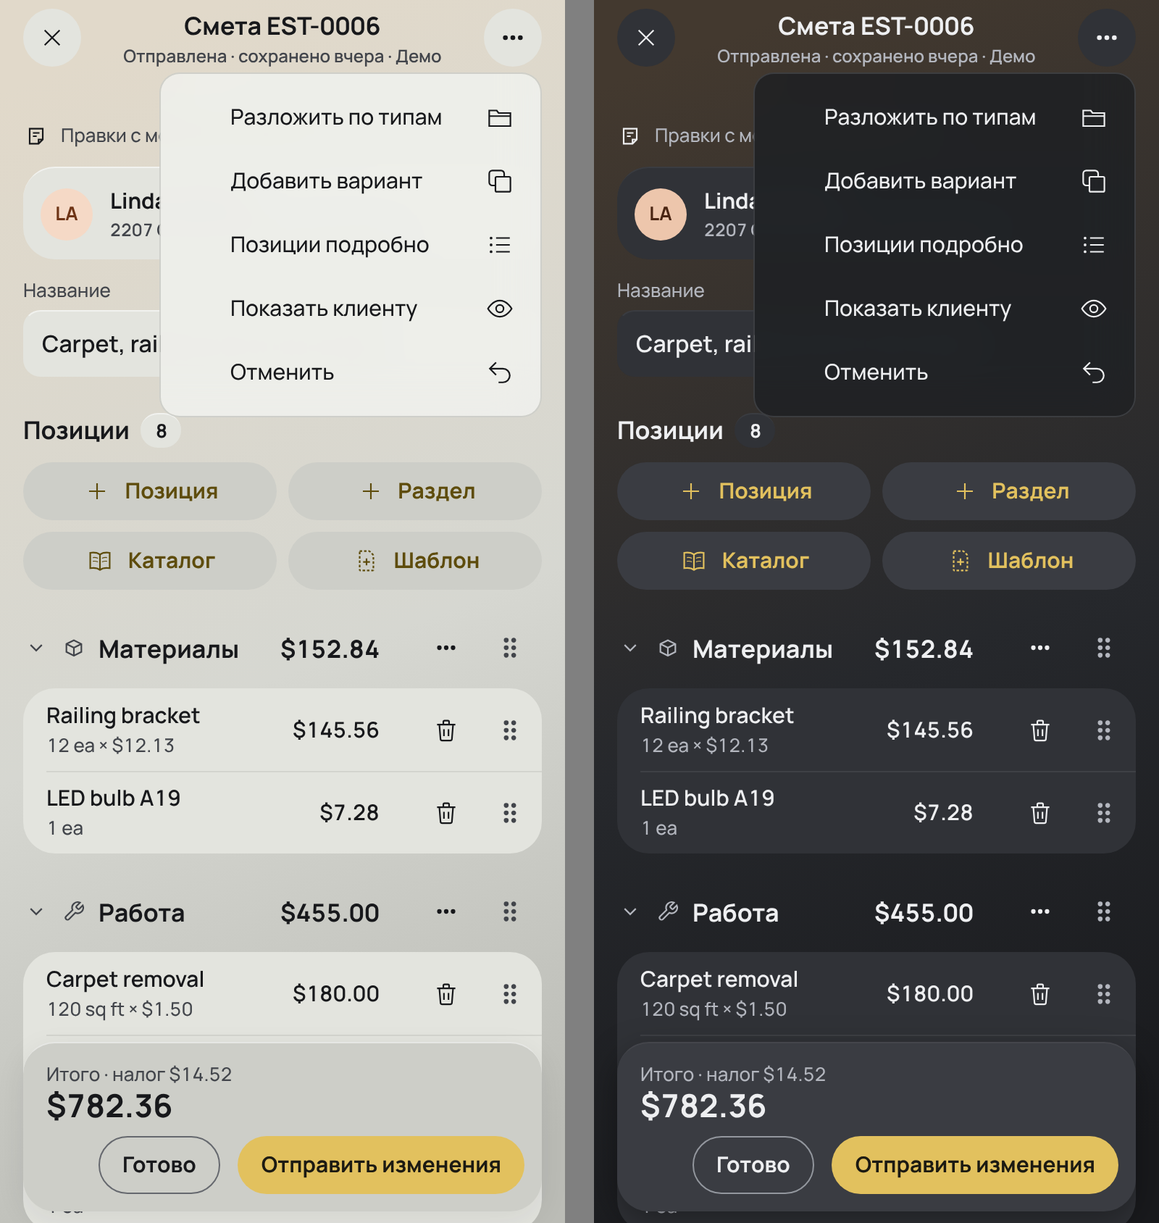
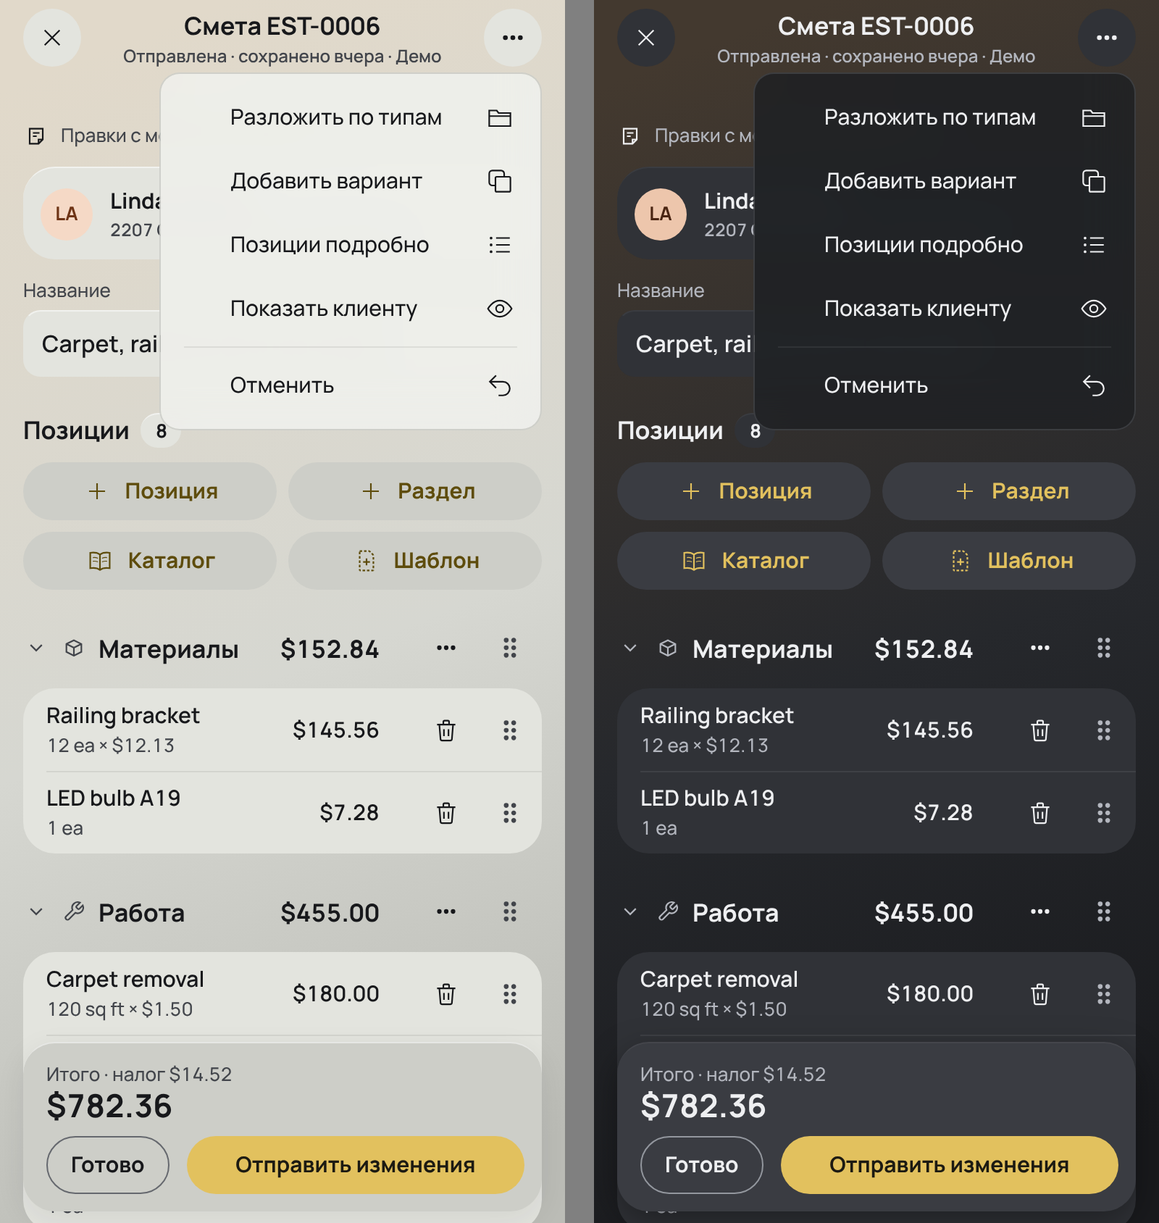
fix(ds): низ сметы, раунд 2 ревью дизайна (#2935)
Ж1: в конце прокрутки «Условия» целиком над низом в две строки — e2e 308 на 6 видах
    (запас под списком уже растёт с высотой низа: Screen меряет footer).
Ж2: две строки держатся до закрытия редактора — stackedBar(m, was), тест mainStep.
Ж3: «Отменить» в «⋯» — после разделителя (MenuItem.group), не красное; e2e 308.
М1: в две строки главная — на остаток ряда (Button grow), «Готово» — по слову; e2e 308.
М2: рамка «Готово» — токен dash в обеих темах (проверено e2e по цвету).
М4: ActionBar — кнопки size="bar" (44), правки не нужно.
Снимки docs/notes/ds-gorix/ пересняты, + smeta-konets.png.

Claude-Session: https://claude.ai/code/session_015CqH67VvS8XLykmH9b4A2U

diff --git a/apps/mobile/src/ui/mainStep.tsx b/apps/mobile/src/ui/mainStep.tsx
@@ -101,7 +101,13 @@ export function MainStep({
         ) : null}
       </View>
     ) : null;
+  // Ж2: two lines stick for the life of the bar (the editor) — no jumping between one line and two while a price is typed
+  const stuck = useRef(false);
+  const stacked = placement === "bar" && layout === "total" && stackedBar(room, stuck.current);
+  if (stacked) stuck.current = true;
   const byWords = placement === "bar" || fit;
+  // М1 (round 2): in the two-line bar the main one takes the row's remaining width, «Готово» keeps its words' width
+  const stackedMain = stacked;
   const button = (
     <Button
       testID={main.testID}
@@ -111,6 +117,7 @@ export function MainStep({
       disabled={main.disabled || phase === "spinner" || phase === "wait"}
       variant={outline || main.outline ? "secondary" : "primary"}
       full={!byWords}
+      grow={stackedMain}
     />
   );
   if (placement === "top")
@@ -120,7 +127,6 @@ export function MainStep({
         {reason}
       </View>
     );
-  const stacked = placement === "bar" && layout === "total" && stackedBar(room);
   // a stacked bar is taller than the capsule: it does not fold (the page's end would move under the finger)
   if (placement === "bar" && folded && total && onUnfold && !stacked)
     return (
@@ -166,7 +172,7 @@ export function MainStep({
           <View style={stacked ? { alignItems: "flex-start" } : { flex: 1, minWidth: 0, alignItems: "flex-start" }}>{left}</View>
           <View
             onLayout={(e) => { const right = Math.round(e.nativeEvent.layout.width); setRoom((f) => (f.right === right ? f : { ...f, right })); }}
-            style={{ flexDirection: "row", alignItems: "center", gap: space[3], flexShrink: 0, alignSelf: stacked ? "flex-end" : undefined }}
+            style={{ flexDirection: "row", alignItems: "center", gap: space[3], flexShrink: 0, alignSelf: stacked ? "stretch" : undefined }}
           >
             {/* #2935: an `outline` aside is the second step beside the main one («Готово» by «Отправить») — `outline` (a `secondary` is the bar's own `surf2`); else a quiet `ghost` («Отменить») */}
             {aside ? <Button testID={aside.testID} label={aside.label} onPress={aside.onPress} disabled={aside.disabled} variant={aside.outline ? "outline" : "ghost"} /> : null}

diff --git a/apps/mobile/src/app/estimate/new.tsx b/apps/mobile/src/app/estimate/new.tsx
@@ -1110,8 +1110,8 @@ function EstimateBuilder({ drafts }: { drafts: ReturnType<typeof useEstimateDraf
     ...(!signed && !tplEdit && doc.options.length < MAX_OPTIONS ? [{ key: "option", label: t("est.var.add"), icon: "copy" as const, testID: "est-add-option" }] : []),
     ...(option.lines.length ? [{ key: "rows", label: t("proto.est.rowsFull"), icon: "list" as const, selected: rowLook === "full", testID: "est-row-view" }] : []),
     { key: "client", label: t("est.client.on"), icon: "eye" as const, selected: clientScreen, testID: "est-menu-client" },
-    // #2935: the bar holds «Итого · Готово · Отправить» — «Отменить» (only with edits, #2381) is the last item here; it asks as before
-    ...(bar.cancel === "more" ? [{ key: "cancel", label: t("k1.cancel"), icon: "undo" as const, testID: "k1-cancel" }] : []),
+    // #2935: the bar holds «Итого · Готово · Отправить» — «Отменить» (only with edits, #2381) is the last item here, after a line (round 2 Ж3; not red: it asks, nothing is lost without the answer)
+    ...(bar.cancel === "more" ? [{ key: "cancel", label: t("k1.cancel"), icon: "undo" as const, group: true, testID: "k1-cancel" }] : []),
   ];
   const onMore = (k: string) => {
     if (k === "cancel") void cancelEdits();

diff --git a/apps/mobile/src/ui/controls.tsx b/apps/mobile/src/ui/controls.tsx
@@ -45,7 +45,10 @@ export function Button({
   accessibilityLabel,
   selected,
   testID,
+  grow,
 }: {
+  /** takes the rest of its row (`flex: 1` of the touch target): the main one of a two-line editor bar (round 2 М1) */
+  grow?: boolean;
   label: string;
   onPress?: () => void;
   variant?: BtnVariant;
@@ -75,6 +78,7 @@ export function Button({
       onPress={onPress}
       disabled={disabled}
       visibleHeight={h}
+      containerStyle={grow ? { flex: 1 } : undefined}
       accessibilityRole="button"
       accessibilityLabel={accessibilityLabel ?? label}
       {...(selected !== undefined ? ({ accessibilityState: { selected, disabled: !!disabled }, "aria-pressed": selected } as object) : null)}
@@ -94,7 +98,7 @@ export function Button({
           alignItems: "center",
           justifyContent: "center",
           gap: space[2],
-          alignSelf: full ? "stretch" : "flex-start",
+          alignSelf: full || grow ? "stretch" : "flex-start",
         },
         style,
       ]}

diff --git a/apps/mobile/src/ui/mainStepRules.ts b/apps/mobile/src/ui/mainStepRules.ts
@@ -58,7 +58,10 @@ export function totalNeed(caption: number, sum: number, floor: number = shrinkFl
 
 /** the total gets its own line over the buttons when it and the buttons (`right`, natural) do not stand in one `row` (gap `space[3]`);
  *  nothing measured yet — one row */
-export function stackedBar(m: { row: number; right: number; need: number }): boolean {
+export function stackedBar(m: { row: number; right: number; need: number }, was = false): boolean {
+  // round 2 (Ж2): once two lines in an editing session, two lines until the editor is closed — typing a price never makes the
+  // bar jump between one line and two (the MainStep keeps `was` for its life: the editor's)
+  if (was) return true;
   if (!(m.row > 0 && m.right > 0 && m.need > 0)) return false;
   return m.need + space[3] + m.right > m.row;
 }

diff --git a/apps/mobile/test/mainStep.test.ts b/apps/mobile/test/mainStep.test.ts
@@ -66,3 +66,13 @@ describe("the bar's total never cut", () => {
     expect(stackedBar({ row: 330, right: 208, need: 0 })).toBe(false);
   });
 });
+
+/** round 2 Ж2: once two lines, two lines until the editor closes — no jump while typing (red before: back to one line at once) */
+describe("the two-line bar holds (hysteresis)", () => {
+  it("a shorter sum after two lines keeps two lines; a fresh bar with the same numbers is one line", () => {
+    const short = { row: 330, right: 208, need: 100 };
+    expect(stackedBar(short, true)).toBe(true);
+    expect(stackedBar(short, false)).toBe(false);
+    expect(stackedBar({ row: 0, right: 0, need: 0 }, true)).toBe(true);
+  });
+});

diff --git a/design/gorix/modules/estimate.md b/design/gorix/modules/estimate.md
@@ -20,7 +20,7 @@
 ### 1.2. Итоги, заметки, низ
 - **Итоги** — `ListGroup` из `GroupRow`: «Сумма», «Скидка», «Налог с продаж», «Депозит» (§3); от 820 — ещё «Итого» крупно. Под строкой — что вышло («Скидка −$…», новый «Итого»), чтобы было видно, что правка уже в смете.
 - **Заметка и условия** — `GroupRow` с «›»: «Заметка для клиента», «Условия» (на языке интерфейса; язык документа — тихой меткой «EN» справа, `GroupRow valueMark`). Шторка правки — «Сохранить» в `footer`; «✕» и смахивание тоже сохраняют (§6).
-- **Низ** — `MainStep bar`, как у Jobber «Review and send» (основатель 27.11, #2935 п.1: «Давай кнопку отправить вниз, как у Джобер»): слева итог (число, не кнопка: шторки «Итого» нет, С5): верхней строкой подписи — «Итого · налог $14.52» (`caption` `mut`, одна строка), под ней сумма `title` одна; справа «Готово» (`Button variant="outline"` — без заливки, рамка `component.hairline` цвета `dash`, слова `ink`; `MainStep aside` с `outline`) и **«Отправить» — одна жёлтая** (`est-bar-send`). Ни сумма, ни налог не обрезаются (ревью 27.11, #2935: «налог ˎ» на 390): сумма сжимается по месту до следующего размера шкалы (`title` 22 → `figureSm` 18, `shrinkFloor`); если итог и кнопки не встают в один ряд — итог встаёт своей строкой над кнопками (`stackedBar`, по измерению, не по длине слов; такой низ не сворачивается в капсулу). «Отправить» — то же действие, что был круг ➤: сохранить и открыть отправку (способ, без сети — в очередь); диктор читает «Сохранить и отправить», как круг ➤. У отправленной (статус не «черновик») — **«Отправить изменения»** (`r1.est.sendChanges`, ревью CRM 27.11: клиент получает новую версию), диктор — так же. Без клиента кнопка не выключается — нажатие говорит, чего нет, и ведёт туда (DS §11 п.3). С правками «Отменить» — последним пунктом «⋯» (в панели четвёртой кнопке нет места); спрашивает окном, как раньше. Где отправить нельзя (мастер — «Отправит офис», #1113; подписанная) — «Готово» жёлтая, с правками «Отменить» (`ghost`) перед ней, как до #2935. Позиций нет — шаг «Из каталога» / «Новая позиция». Правило — `barSteps` (`features/estimate/editSession.ts`, тест `editSession.test.ts`), экран — e2e 308, 523.
+- **Низ** — `MainStep bar`, как у Jobber «Review and send» (основатель 27.11, #2935 п.1: «Давай кнопку отправить вниз, как у Джобер»): слева итог (число, не кнопка: шторки «Итого» нет, С5): верхней строкой подписи — «Итого · налог $14.52» (`caption` `mut`, одна строка), под ней сумма `title` одна; справа «Готово» (`Button variant="outline"` — без заливки, рамка `component.hairline` цвета `dash`, слова `ink`; `MainStep aside` с `outline`) и **«Отправить» — одна жёлтая** (`est-bar-send`). Ни сумма, ни налог не обрезаются (ревью 27.11, #2935: «налог ˎ» на 390): сумма сжимается по месту до следующего размера шкалы (`title` 22 → `figureSm` 18, `shrinkFloor`); если итог и кнопки не встают в один ряд — итог встаёт своей строкой над кнопками (`stackedBar`, по измерению, не по длине слов; такой низ не сворачивается в капсулу; запас под списком растёт с высотой низа — «Условия» в конце прокрутки видны целиком, e2e 308). **Раз стал в две строки — в две строки до закрытия редактора** (раунд 2, Ж2): правка цены не дёргает низ между одной и двумя строками (`stackedBar(…, was)`, тест `mainStep.test.ts`). В две строки «Готово» — по ширине слова, главная — на весь остаток ряда (`Button grow`). «Отправить» — то же действие, что был круг ➤: сохранить и открыть отправку (способ, без сети — в очередь); диктор читает «Сохранить и отправить», как круг ➤. У отправленной (статус не «черновик») — **«Отправить изменения»** (`r1.est.sendChanges`, ревью CRM 27.11: клиент получает новую версию), диктор — так же. Без клиента кнопка не выключается — нажатие говорит, чего нет, и ведёт туда (DS §11 п.3). С правками «Отменить» — последним пунктом «⋯», после разделителя, не красным (в панели четвёртой кнопке нет места); спрашивает окном, как раньше. Где отправить нельзя (мастер — «Отправит офис», #1113; подписанная) — «Готово» жёлтая, с правками «Отменить» (`ghost`) перед ней, как до #2935. Позиций нет — шаг «Из каталога» / «Новая позиция». Правило — `barSteps` (`features/estimate/editSession.ts`, тест `editSession.test.ts`), экран — e2e 308, 523.
 - **Капсула** при прокрутке вниз — «˄ $772.36» и круг «＋» справа (С2, решение руководителя №22, 22.11). Сворачивание — с движением: капсула выезжает на `motion.foldShift`, вырастая из `motion.foldScale`, проявлением за `durBase` `easeOut`; уходящая гаснет за `durFast`; при первом показе и уменьшенном движении — без движения (#2405; сторож `totalFoldMotion.test.ts`). У конца прокрутки — снова вся карточка «Итого»; высота свёрнутого и открытого низа одна (`ui/totalFold.ts`, тест `totalFold.test.ts`).
 - **«Отправить» — внизу, главной** (#2935 п.1, 27.11; **отменяет #2379 «Отправить — вверху сметы» в этой части**). В шапке круга ➤ больше нет — одно место для одного действия; шапка — «×», заголовок, «⋯». У отправленной — «Отправить изменения» (ревью CRM 27.11 вернуло подпись прежнего круга ➤; `barSteps` `sendChanges`, тест `editSession.test.ts`, e2e 308). В «⋯» отправки нет (карта кнопок #2403). У пустой и подписанной сметы «Отправить» нет.
 - **Пока печатают в строке итогов**, «Итого $…» остаётся на виду (#2455): на iPhone — в панели клавиатуры (`NumberBar`: «Итого» слева, «Готово» справа), в браузере и на Android — строкой под набираемой. Сторож — `totalsTyping.test.ts`.

diff --git a/design/gorix/CHANGELOG.md b/design/gorix/CHANGELOG.md
@@ -4,6 +4,7 @@
 - Смета §1.2: «Итого · налог $14.52» — верхней строкой подписи, сумма одна под ней; ничего не обрезается: сумма сжимается до `figureSm` (`shrinkFloor`), не встаёт рядом с кнопками — итог своей строкой над ними (`stackedBar`). У отправленной — «Отправить изменения»; диктор у «Отправить» — «Сохранить и отправить», как у круга ➤.
 - `Button variant="outline"` (Д-кнопка-7): без заливки, рамка `hairline` `dash`, слова `ink` — «Готово» на панели `surf2`. `contrast.test.ts`: `dash` ≥ 3:1 к `surf2` и `bg`.
 - Д-меню-5: «⋯» по ширине самой длинной подписи, `menuW`…`select.menuMaxW`. В «⋯» сметы «Разложить по типам» — `sections`, «Позиции подробно» — `list` (были оба `menu`).
+- Раунд 2: две строки держатся до закрытия редактора (Ж2); в две строки главная — на остаток ряда (`Button grow`, М1); «Отменить» в «⋯» — после разделителя (Ж3); запас под списком растёт с низом (Ж1, e2e 308).
 - Витрина: Кнопки → «Обводка»; Прототип объекта → «Низ сметы» — второй образец «Отправить изменения» с налогом ($123,456.78).
 
 ### 2.1.1 — 27.11.2026 — «Отправить» в смете внизу (#2935 п.1)

diff --git a/design/gorix/GORIX-DS.md b/design/gorix/GORIX-DS.md
@@ -237,7 +237,7 @@
 ### Кнопка — `Button`
 - **Что это:** кнопка со словом: главная, вторичная, третичная, опасная.
 - **Когда брать:** действие экрана, шторки, окна. **Когда нет:** выбор значения (§4.0); вспомогательное действие поля (значок в поле).
-- **Компонент:** `Button` (`variant`: `primary`, `secondary`, `outline`, `ghost`, `danger`; `size`: `sm`, `bar`) — `ui/controls.tsx`.
+- **Компонент:** `Button` (`variant`: `primary`, `secondary`, `outline`, `ghost`, `danger`; `size`: `sm`, `bar`; `grow` — остаток ряда) — `ui/controls.tsx`.
 - **Состояния:** обычное, нажато, выключено; загрузка — ⬜ (спиннер вместо подписи после `motion.spinnerDelayMs`, через `motion.actionTimeoutMs` — «Повторить»); ошибки у кнопки нет — ошибка рядом.
 - **Правила:**
   - Д-кнопка-1. Видимая высота — `component.button.phone` на телефоне, `sm` / `md` на широких; зона — `component.button.hit`. *Почему:* правило 3 (основатель 20.11, Mac №143: «кнопку 50 я бы не делал»; записано 21.11 в #2350). *Проверяет:* `fontScale.test.ts`.
